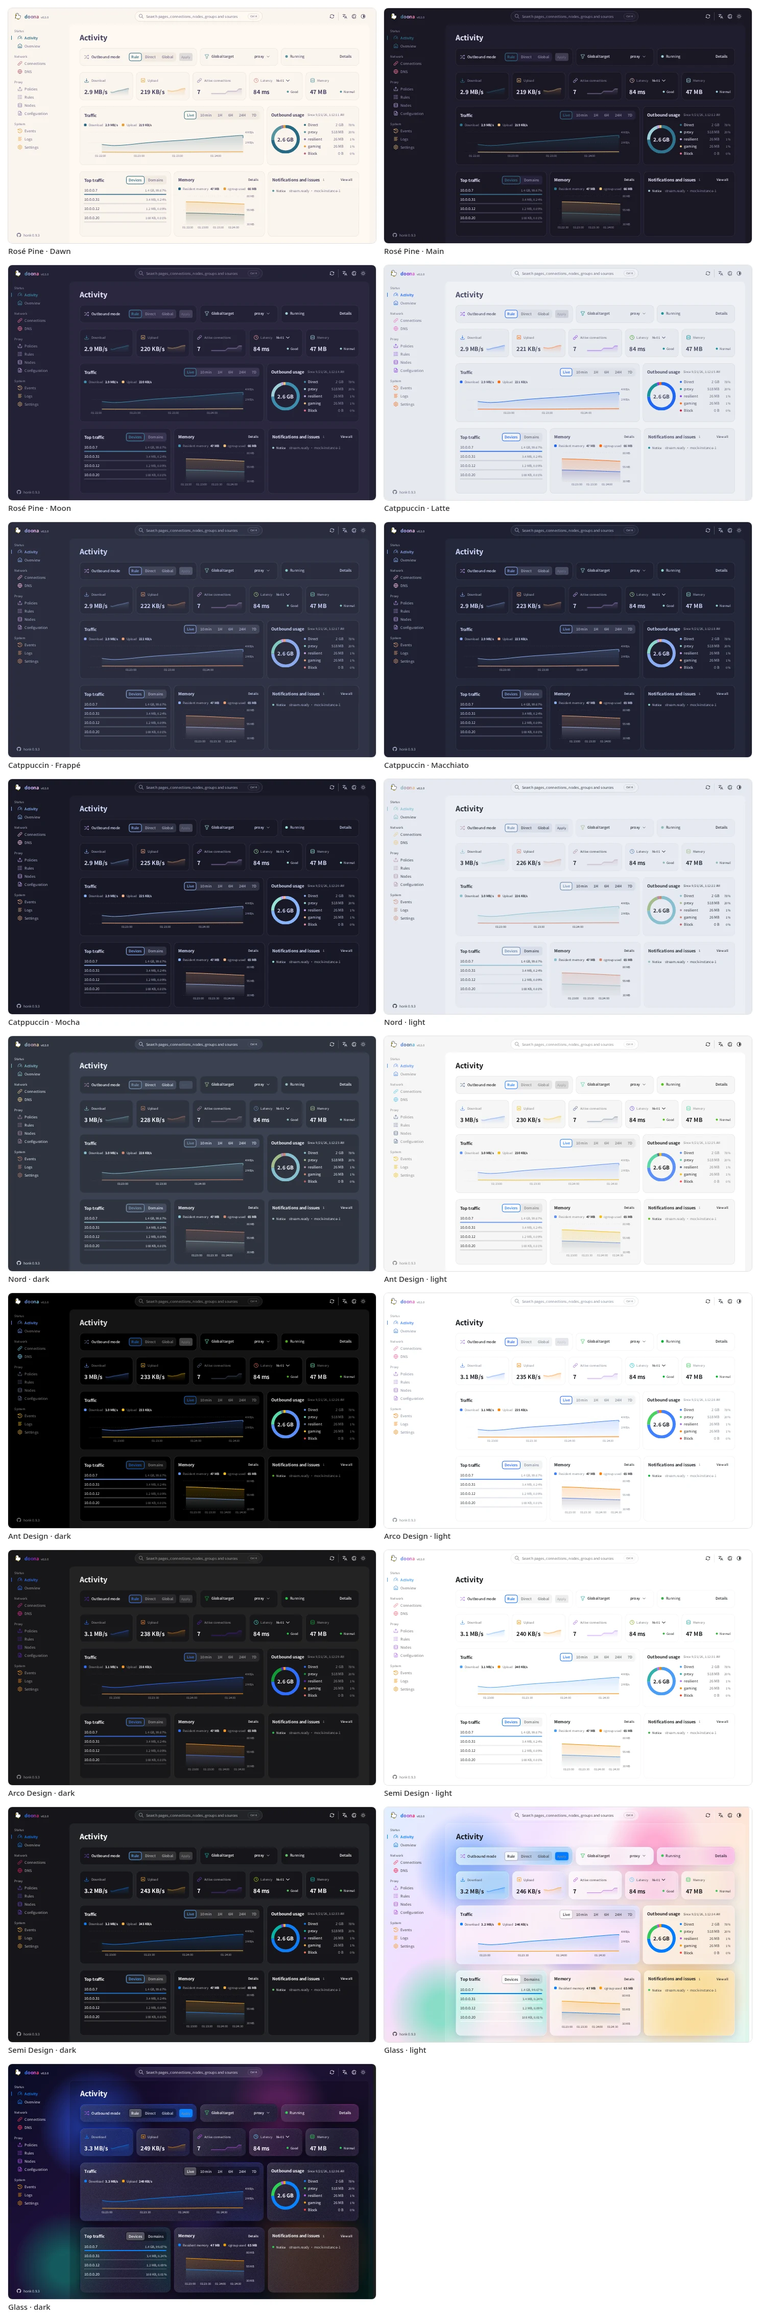
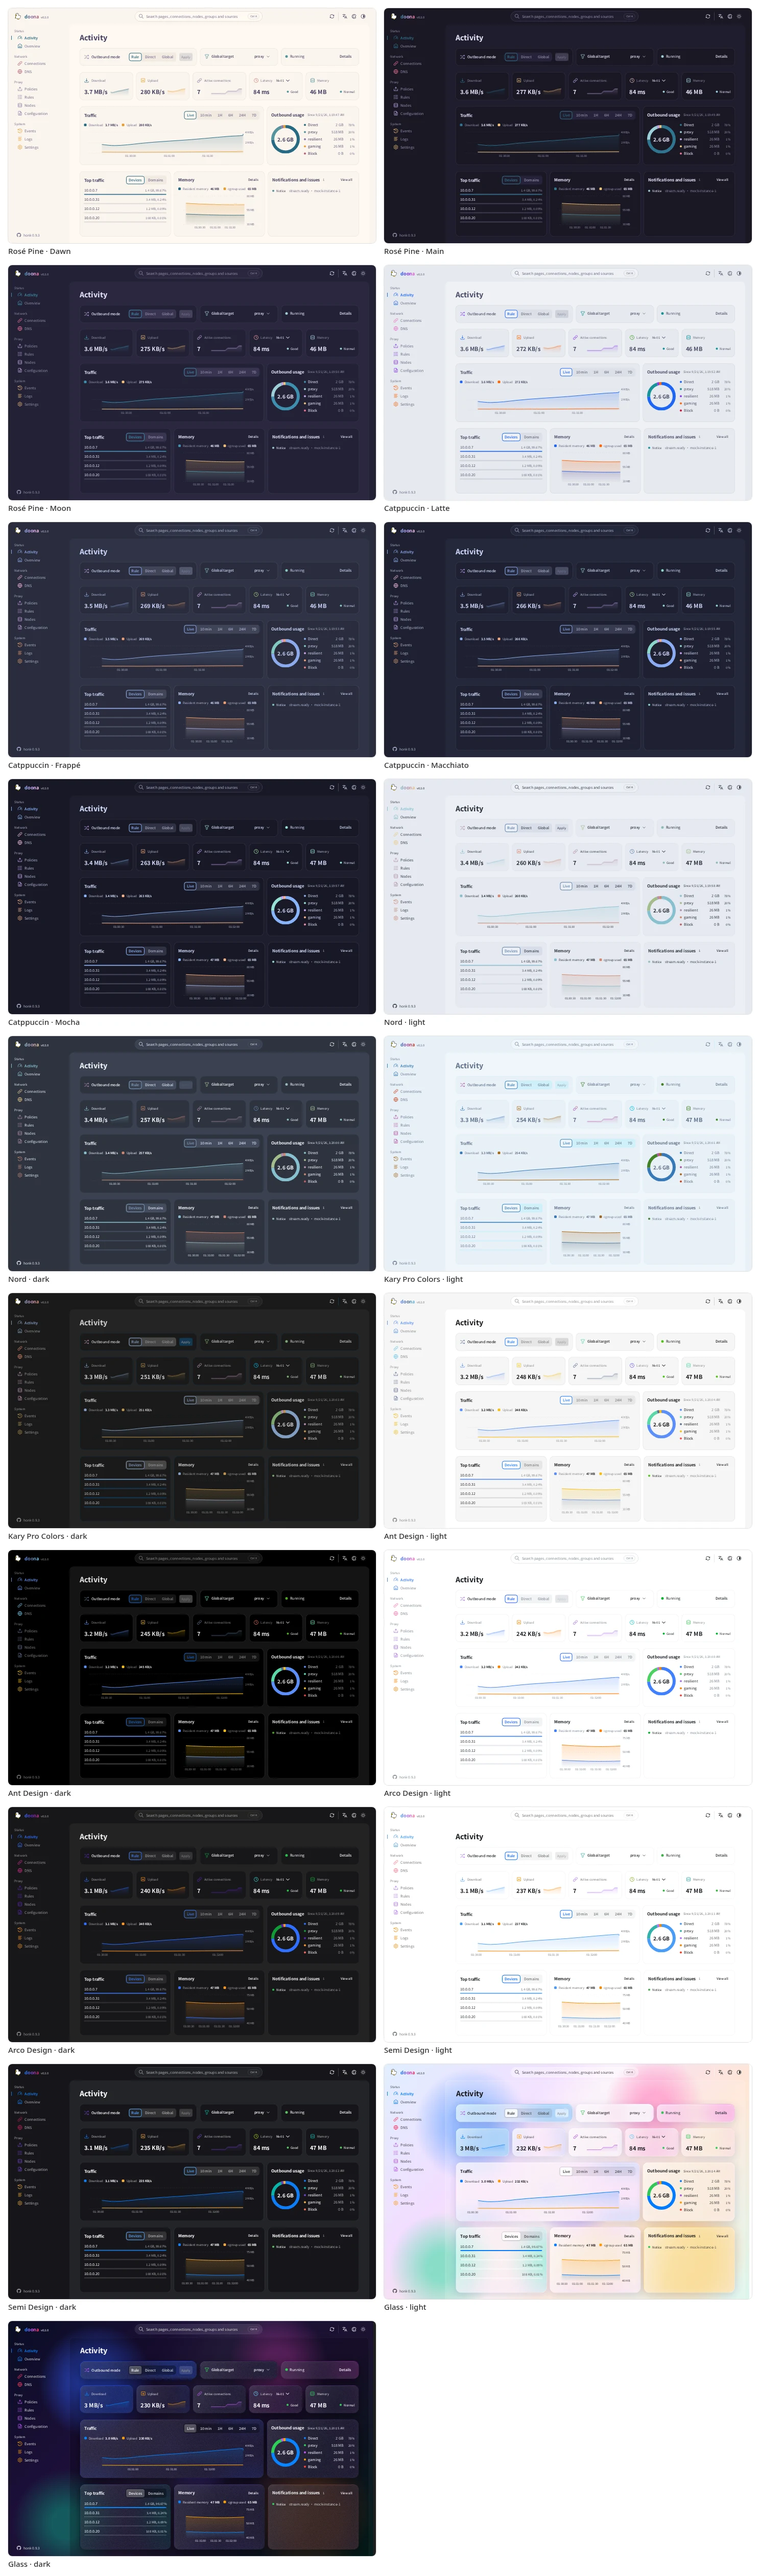
feat(ui): Kary Pro Colors 配色；玻璃族按鈕改平
Kary Pro Colors（Pouya Kary）是編輯器主題，官方值只有十來個：編輯器背景當卡片、
行高亮當頁面、選取色當浮層、游標色當第六個圖表色，次級文字取兩個灰的混色，其餘照官方值。
淺深各一套，配色表、截圖工具、README 一併登記。
玻璃族的強調按鈕去掉外發光與斜面，改平的主色；玻璃規則優先級高過一般的停用規則，
停用時仍是亮藍色，補上停用外觀。

diff --git a/src/ui/theme.css b/src/ui/theme.css
@@ -161,6 +161,61 @@
   --rp-hl-high: #4c566a;
   --rp-shadow: 0 1px 2px rgba(0, 0, 0, 0.3);
 }
+:root[data-family='kary'] {
+  /* Kary Pro Colors (Pouya Kary) is an editor theme with a short official list: the editor background is the
+     card, the line highlight the page, the selection the overlay, and the caret the sixth chart colour. The
+     secondary text is a blend of its two greys. */
+  --rp-base: #e7f0f7;
+  --rp-surface: #f0f6fb;
+  --rp-overlay: #cff0f9;
+  --rp-muted: #9ba6b5;
+  --rp-subtle: color-mix(in srgb, #65758d 75%, #9ba6b5);
+  --rp-text: #65758d;
+  --rp-love: #c94824;
+  --rp-gold: #a56416;
+  --rp-rose: #00bbec;
+  --rp-pine: #3778b7;
+  --rp-foam: #428226;
+  --rp-iris: #b052a1;
+  --rp-c1: var(--rp-pine);
+  --rp-c2: var(--rp-foam);
+  --rp-c3: var(--rp-iris);
+  --rp-c4: var(--rp-gold);
+  --rp-c5: var(--rp-rose);
+  --rp-c6: var(--rp-love);
+  --rp-c7: var(--rp-pine);
+  --rp-c8: var(--rp-foam);
+  --rp-hl-low: #e7f0f7;
+  --rp-hl-med: #cff0f9;
+  --rp-hl-high: color-mix(in srgb, #65758d 25%, #f0f6fb);
+  --rp-shadow: 0 1px 2px rgba(101, 117, 141, 0.1);
+}
+:root[data-family='kary'][data-scheme='dark'] {
+  --rp-base: #1a1a1a;
+  --rp-surface: #242424;
+  --rp-overlay: #474747;
+  --rp-muted: #888888;
+  --rp-subtle: #909090;
+  --rp-text: #cacaca;
+  --rp-love: #d38569;
+  --rp-gold: #bc9550;
+  --rp-rose: #00bbec;
+  --rp-pine: #819dc2;
+  --rp-foam: #7da76f;
+  --rp-iris: #b98eb2;
+  --rp-c1: var(--rp-pine);
+  --rp-c2: var(--rp-foam);
+  --rp-c3: var(--rp-iris);
+  --rp-c4: var(--rp-gold);
+  --rp-c5: var(--rp-rose);
+  --rp-c6: var(--rp-love);
+  --rp-c7: var(--rp-pine);
+  --rp-c8: var(--rp-foam);
+  --rp-hl-low: #242424;
+  --rp-hl-med: #133853;
+  --rp-hl-high: #474747;
+  --rp-shadow: 0 1px 2px rgba(0, 0, 0, 0.3);
+}
 :root[data-flavour='main'][data-scheme='dark'] {
   --rp-base: #191724;
   --rp-surface: #1f1d2e;
@@ -666,9 +721,17 @@
 :root[data-family='glass'] .rp-btn.accent {
   background: var(--rp-pine);
   border-color: transparent;
-  box-shadow:
-    inset 0 1px 0 var(--rp-bevel),
-    0 4px 12px color-mix(in srgb, var(--rp-pine) 35%, transparent);
+  box-shadow: none;
+}
+/* The glass rules outrank the generic disabled ones, so the disabled looks are restated here. */
+:root[data-family='glass'] .rp-btn[data-disabled] {
+  background: var(--rp-hl-low);
+  border-color: transparent;
+  box-shadow: none;
+}
+:root[data-family='glass'] .rp-btn.accent[data-disabled] {
+  background: var(--rp-hl-med);
+  color: var(--rp-muted);
 }
 :root[data-family='glass'] .rp-btn.accent[data-hovered] {
   background: color-mix(in srgb, var(--rp-pine) 86%, var(--rp-ink-mix));

diff --git a/src/shell/messages.ts b/src/shell/messages.ts
@@ -79,6 +79,7 @@ export const messages = defineMessages({
     'palette.arco': 'Arco Design',
     'palette.semi': 'Semi Design',
     'palette.lightDark': '亮色／暗色',
+    'palette.kary': 'Kary Pro Colors',
     'palette.glassName': '玻璃'
   },
   'zh-CN': {
@@ -159,6 +160,7 @@ export const messages = defineMessages({
     'palette.arco': 'Arco Design',
     'palette.semi': 'Semi Design',
     'palette.lightDark': '浅色／深色',
+    'palette.kary': 'Kary Pro Colors',
     'palette.glassName': '玻璃'
   },
   en: {
@@ -239,6 +241,7 @@ export const messages = defineMessages({
     'palette.arco': 'Arco Design',
     'palette.semi': 'Semi Design',
     'palette.lightDark': 'Light / Dark',
+    'palette.kary': 'Kary Pro Colors',
     'palette.glassName': 'Glass'
   }
 });

diff --git a/src/shell/Shell.tsx b/src/shell/Shell.tsx
@@ -56,6 +56,7 @@ const palettes = (t: Translator): Array<{title: string; items: Array<{id: Palett
     ]
   },
   {title: t('palette.nord'), items: [{id: 'nord/nord', label: t('palette.nord'), desc: t('palette.nordVariants')}]},
+  {title: t('palette.kary'), items: [{id: 'kary/kary', label: t('palette.kary'), desc: t('palette.lightDark')}]},
   {title: t('palette.antd'), items: [{id: 'antd/antd', label: t('palette.antd'), desc: t('palette.defaultDark')}]},
   {
     title: t('palette.bytedance'),

diff --git a/src/features/settings/settings.ts b/src/features/settings/settings.ts
@@ -9,6 +9,7 @@ export type PaletteId =
   | 'catppuccin/macchiato'
   | 'catppuccin/mocha'
   | 'nord/nord'
+  | 'kary/kary'
   | 'glass/glass'
   | 'antd/antd'
   | 'arco/arco'

diff --git a/README.zh-TW.md b/README.zh-TW.md
@@ -15,14 +15,14 @@
 
 </div>
 
-doona 是一組靜態檔案，由 honk 自己或任一 Web 伺服器提供。它顯示 honk 當下的狀態：連線、保留的流程、DNS、事件、日誌、流量與記憶體。它也匯入訂閱與分享連結，把節點編成群組並測延遲，用表單寫路由規則，配置檔每次儲存前先校驗。介面有繁體中文、簡體中文與英文，十套配色，各有淺色與深色。
+doona 是一組靜態檔案，由 honk 自己或任一 Web 伺服器提供。它顯示 honk 當下的狀態：連線、保留的流程、DNS、事件、日誌、流量與記憶體。它也匯入訂閱與分享連結，把節點編成群組並測延遲，用表單寫路由規則，配置檔每次儲存前先校驗。介面有繁體中文、簡體中文與英文，十一套配色，各有淺色與深色。
 
 ![活動頁](docs/screenshots/zh-TW/activity-light.png)
 
 <details>
 <summary><strong>全部配色</strong></summary>
 
-十套配色各有淺色與深色；Rosé Pine 與 Catppuccin 另有多種深色變體。配色在頂欄切換。
+十一套配色各有淺色與深色；Rosé Pine 與 Catppuccin 另有多種深色變體。配色在頂欄切換。
 
 <img src="docs/screenshots/palettes.webp" alt="全部配色的淺色與深色" width="100%">
 
@@ -128,14 +128,14 @@ experimental {
 
 doona 不在伺服器上保存任何資料。設定存在瀏覽器該來源的 `localStorage`：
 
-| 設定     | 鍵               | 值                                                                                                                                         |
-| -------- | ---------------- | ------------------------------------------------------------------------------------------------------------------------------------------ |
-| 後端     | `doona-profiles` | `{id, name, api, token}` 的 JSON 陣列；`api` 是伺服器根位址或代理前綴，留空或 `mock` 用示範資料；token 只放在 Authorization 標頭，不進網址 |
-| 使用中的 | `doona-profile`  | 所選後端的 `id`                                                                                                                            |
-| 語言     | `doona-lang`     | `zh-TW`（預設）、`zh-CN`、`en`                                                                                                             |
-| 配色方案 | `doona-scheme`   | `system`（預設）、`light`、`dark`                                                                                                          |
-| 配色     | `doona-palette`  | `rose-pine/moon`（預設）；Rosé Pine、Catppuccin Frappé／Macchiato／Mocha、Nord、Ant Design、Arco Design、Semi Design、Glass                |
-| 字標     | `doona-wordmark` | `gradient`（預設）、`plain`                                                                                                                |
+| 設定     | 鍵               | 值                                                                                                                                           |
+| -------- | ---------------- | -------------------------------------------------------------------------------------------------------------------------------------------- |
+| 後端     | `doona-profiles` | `{id, name, api, token}` 的 JSON 陣列；`api` 是伺服器根位址或代理前綴，留空或 `mock` 用示範資料；token 只放在 Authorization 標頭，不進網址   |
+| 使用中的 | `doona-profile`  | 所選後端的 `id`                                                                                                                              |
+| 語言     | `doona-lang`     | `zh-TW`（預設）、`zh-CN`、`en`                                                                                                               |
+| 配色方案 | `doona-scheme`   | `system`（預設）、`light`、`dark`                                                                                                            |
+| 配色     | `doona-palette`  | `rose-pine/moon`（預設）；Rosé Pine、Catppuccin Frappé／Macchiato／Mocha、Nord、Kary Pro Colors、Ant Design、Arco Design、Semi Design、Glass |
+| 字標     | `doona-wordmark` | `gradient`（預設）、`plain`                                                                                                                  |
 
 儲存的主題與語言在第一幀之前就套用，重新載入不會閃出預設外觀。
 

diff --git a/README.zh-CN.md b/README.zh-CN.md
@@ -15,14 +15,14 @@
 
 </div>
 
-doona 是一组静态文件，由 honk 自己或任意 Web 服务器提供。它显示 honk 当前的状态：连接、保留的流程、DNS、事件、日志、流量与内存。它也导入订阅与分享链接，把节点编成群组并测延迟，用表单写路由规则，配置文件每次保存前先校验。界面有繁体中文、简体中文与英文，十套配色，各有浅色与深色。
+doona 是一组静态文件，由 honk 自己或任意 Web 服务器提供。它显示 honk 当前的状态：连接、保留的流程、DNS、事件、日志、流量与内存。它也导入订阅与分享链接，把节点编成群组并测延迟，用表单写路由规则，配置文件每次保存前先校验。界面有繁体中文、简体中文与英文，十一套配色，各有浅色与深色。
 
 ![活动页](docs/screenshots/zh-CN/activity-light.png)
 
 <details>
 <summary><strong>全部配色</strong></summary>
 
-十套配色各有浅色与深色；Rosé Pine 与 Catppuccin 另有多种深色变体。配色在顶栏切换。
+十一套配色各有浅色与深色；Rosé Pine 与 Catppuccin 另有多种深色变体。配色在顶栏切换。
 
 <img src="docs/screenshots/palettes.webp" alt="全部配色的浅色与深色" width="100%">
 
@@ -128,14 +128,14 @@ experimental {
 
 doona 不在服务器上保存任何数据。设置存在浏览器该来源的 `localStorage`：
 
-| 设置     | 键               | 值                                                                                                                                       |
-| -------- | ---------------- | ---------------------------------------------------------------------------------------------------------------------------------------- |
-| 后端     | `doona-profiles` | `{id, name, api, token}` 的 JSON 数组；`api` 是服务器根地址或代理前缀，留空或 `mock` 用演示数据；token 只放在 Authorization 头，不进网址 |
-| 使用中的 | `doona-profile`  | 所选后端的 `id`                                                                                                                          |
-| 语言     | `doona-lang`     | `zh-TW`（默认）、`zh-CN`、`en`                                                                                                           |
-| 配色方案 | `doona-scheme`   | `system`（默认）、`light`、`dark`                                                                                                        |
-| 配色     | `doona-palette`  | `rose-pine/moon`（默认）；Rosé Pine、Catppuccin Frappé／Macchiato／Mocha、Nord、Ant Design、Arco Design、Semi Design、Glass              |
-| 字标     | `doona-wordmark` | `gradient`（默认）、`plain`                                                                                                              |
+| 设置     | 键               | 值                                                                                                                                           |
+| -------- | ---------------- | -------------------------------------------------------------------------------------------------------------------------------------------- |
+| 后端     | `doona-profiles` | `{id, name, api, token}` 的 JSON 数组；`api` 是服务器根地址或代理前缀，留空或 `mock` 用演示数据；token 只放在 Authorization 头，不进网址     |
+| 使用中的 | `doona-profile`  | 所选后端的 `id`                                                                                                                              |
+| 语言     | `doona-lang`     | `zh-TW`（默认）、`zh-CN`、`en`                                                                                                               |
+| 配色方案 | `doona-scheme`   | `system`（默认）、`light`、`dark`                                                                                                            |
+| 配色     | `doona-palette`  | `rose-pine/moon`（默认）；Rosé Pine、Catppuccin Frappé／Macchiato／Mocha、Nord、Kary Pro Colors、Ant Design、Arco Design、Semi Design、Glass |
+| 字标     | `doona-wordmark` | `gradient`（默认）、`plain`                                                                                                                  |
 
 保存的主题与语言在第一帧之前就应用，重新加载不会闪出默认外观。
 

diff --git a/README.md b/README.md
@@ -15,14 +15,14 @@ English · [简体中文](README.zh-CN.md) · [繁體中文](README.zh-TW.md)
 
 </div>
 
-doona is a set of static files that honk serves itself, or any web server does. It shows what honk is doing right now (connections, retained flows, DNS, events, logs, traffic and memory), imports subscriptions and share links, groups nodes and tests their latency, writes routing rules from a form, and edits the configuration files with validation before every save. It speaks Traditional Chinese, Simplified Chinese and English, and ships ten palettes in light and dark.
+doona is a set of static files that honk serves itself, or any web server does. It shows what honk is doing right now (connections, retained flows, DNS, events, logs, traffic and memory), imports subscriptions and share links, groups nodes and tests their latency, writes routing rules from a form, and edits the configuration files with validation before every save. It speaks Traditional Chinese, Simplified Chinese and English, and ships eleven palettes in light and dark.
 
 ![The activity page](docs/screenshots/en/activity-light.png)
 
 <details>
 <summary><strong>Every palette</strong></summary>
 
-Ten palettes, each with a light and a dark side; Rosé Pine and Catppuccin keep several dark flavours. The palette picker is in the top bar.
+Eleven palettes, each with a light and a dark side; Rosé Pine and Catppuccin keep several dark flavours. The palette picker is in the top bar.
 
 <img src="docs/screenshots/palettes.webp" alt="Every palette in light and dark" width="100%">
 
@@ -134,7 +134,7 @@ doona keeps nothing on the server. Its settings live in the browser's `localStor
 | Active one    | `doona-profile`  | `id` of the selected backend                                                                                                                                                  |
 | Language      | `doona-lang`     | `zh-TW` (default), `zh-CN`, `en`                                                                                                                                              |
 | Colour scheme | `doona-scheme`   | `system` (default), `light`, `dark`                                                                                                                                           |
-| Palette       | `doona-palette`  | `rose-pine/moon` (default); Rosé Pine, Catppuccin Frappé, Macchiato and Mocha, Nord, Ant Design, Arco Design, Semi Design and Glass                                           |
+| Palette       | `doona-palette`  | `rose-pine/moon` (default); Rosé Pine, Catppuccin Frappé, Macchiato and Mocha, Nord, Kary Pro Colors, Ant Design, Arco Design, Semi Design and Glass                          |
 | Wordmark      | `doona-wordmark` | `gradient` (default), `plain`                                                                                                                                                 |
 
 The saved theme and language are applied before the first paint, so a reload does not flash the default look.
